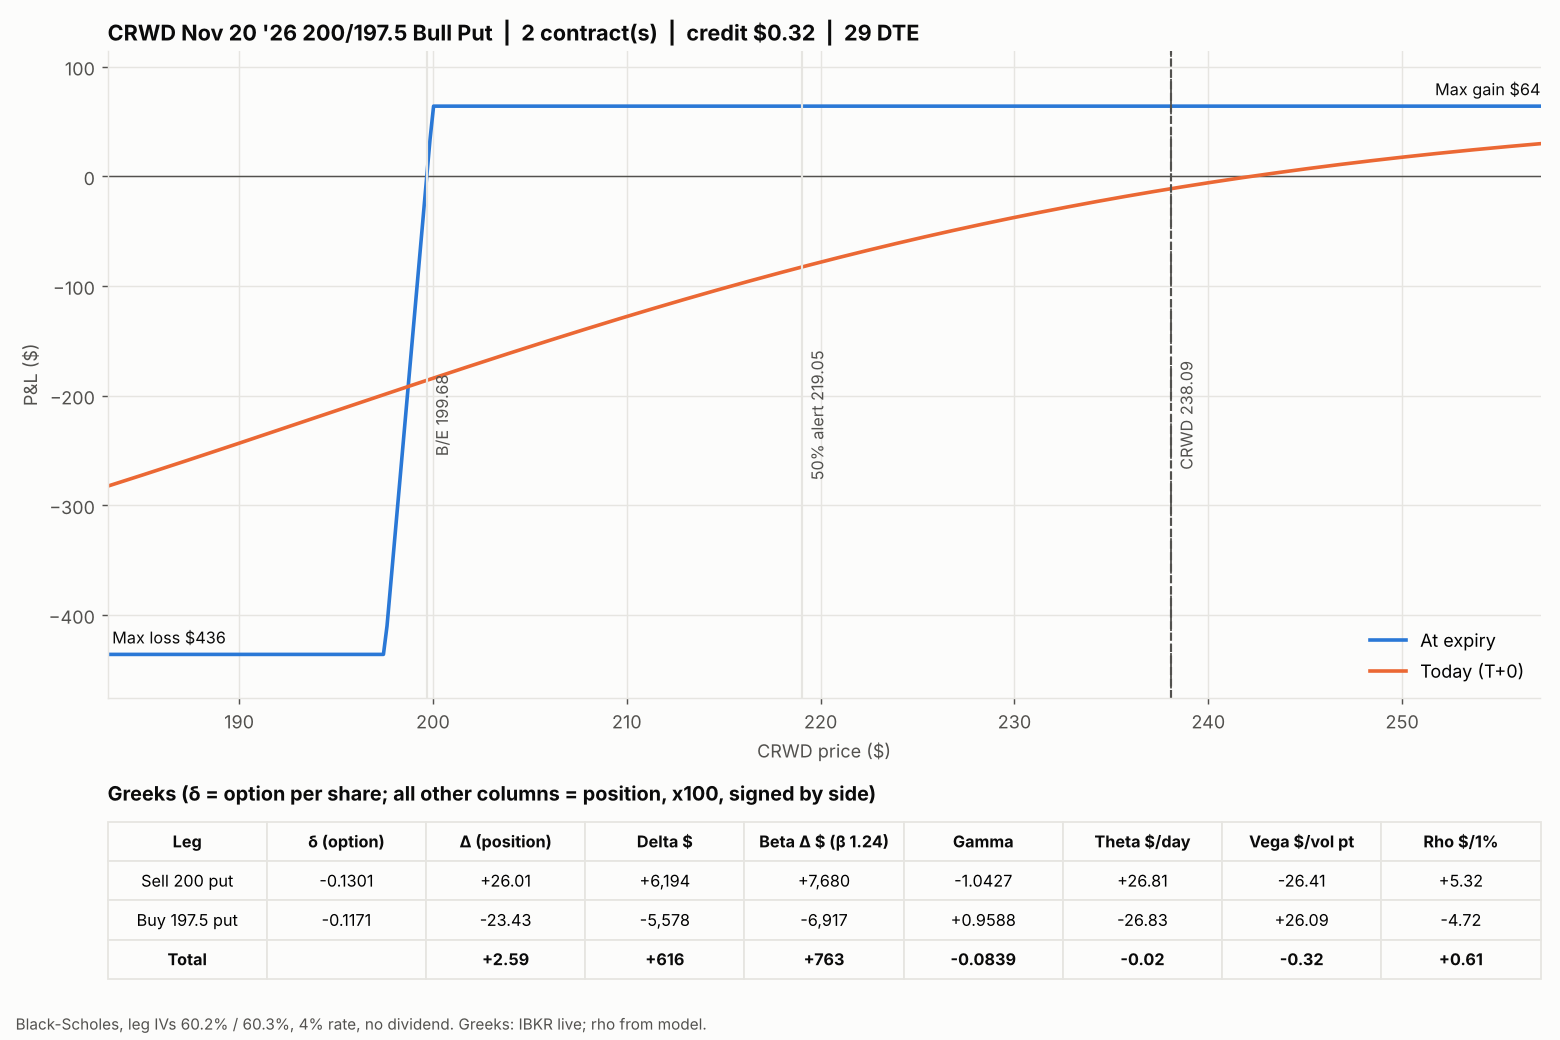
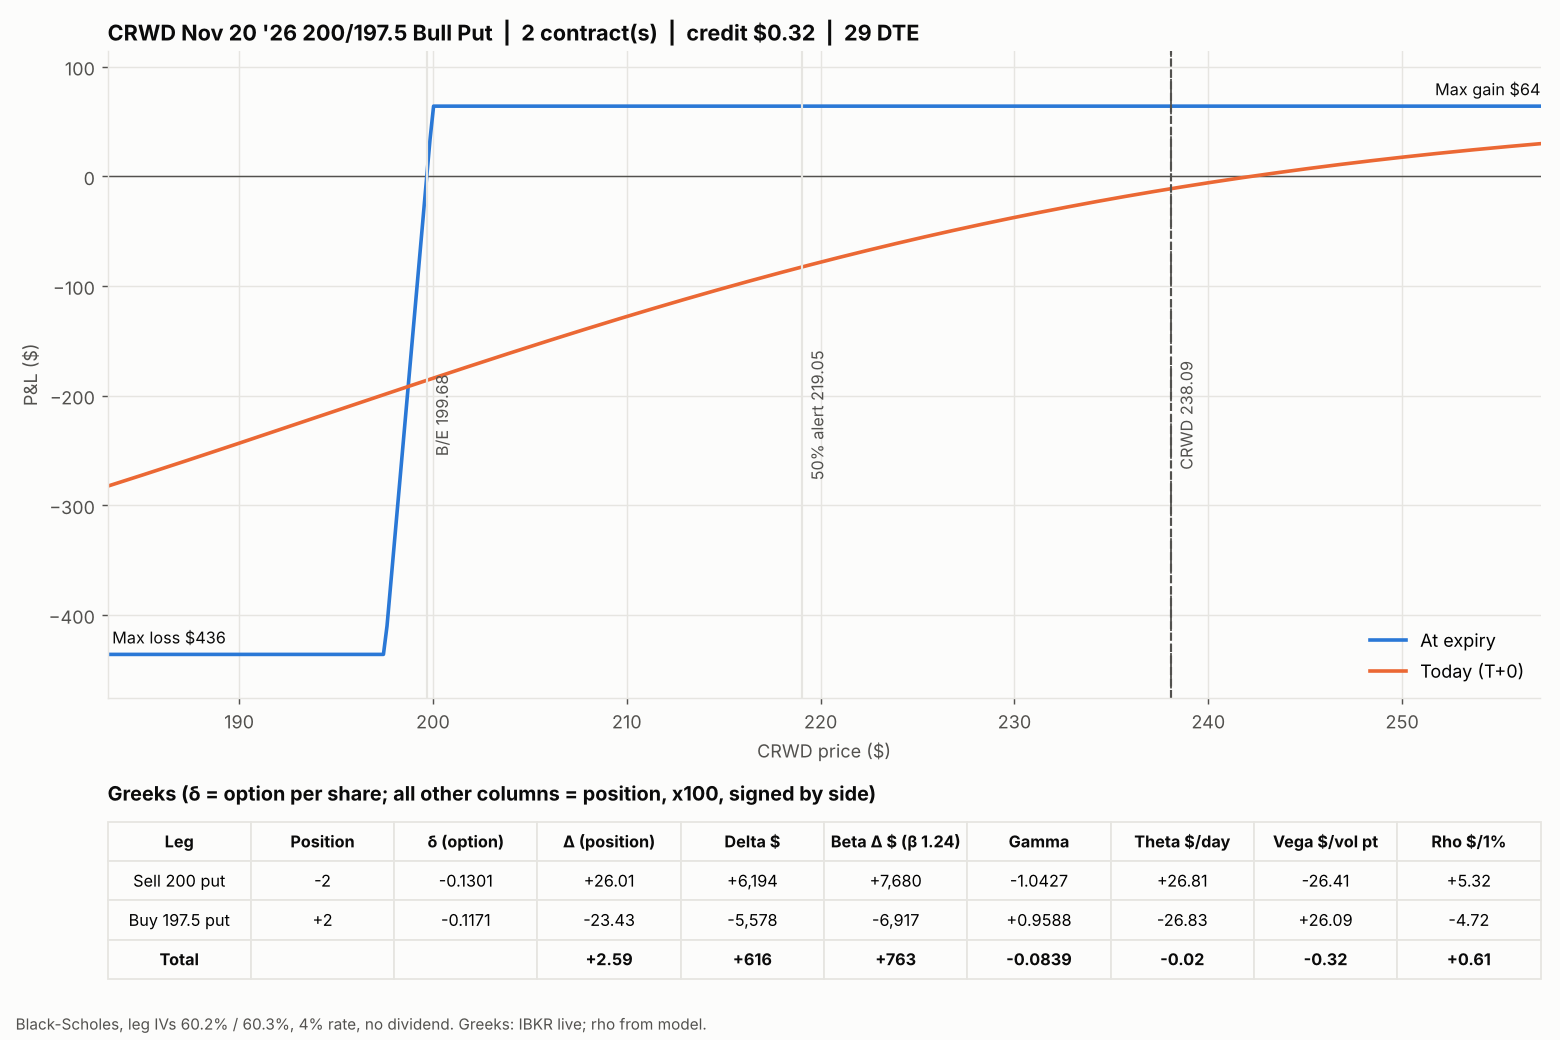
Add position column to greeks table
Claude-Session: https://claude.ai/code/session_01FtgXF3B8kbNGSWUt2ybbKy

Changed region(s): [[0.2769, 0.8, 0.9538, 0.9538], [0.0923, 0.8, 0.1538, 0.9231], [0.1846, 0.8, 0.2462, 0.8923]]

diff --git a/charts/spread_chart.py b/charts/spread_chart.py
@@ -43,10 +43,10 @@ def position(g, side):
 short_row, long_row = position(sg, -1), position(lg, 1)
 total_row = [a + b for a, b in zip(short_row, long_row)]
 fmt = ("{:+.2f}", "{:+,.0f}", "{:+,.0f}", "{:+.4f}", "{:+.2f}", "{:+.2f}", "{:+.2f}")
-row = lambda name, raw, vals: [name, raw] + [f.format(v) for f, v in zip(fmt, vals)]
-greek_rows = [row(f"Sell {KS:g} put", f"{sg[0]:+.4f}", short_row),
-              row(f"Buy {KL:g} put", f"{lg[0]:+.4f}", long_row),
-              row("Total", "", total_row)]
+row = lambda name, pos, raw, vals: [name, pos, raw] + [f.format(v) for f, v in zip(fmt, vals)]
+greek_rows = [row(f"Sell {KS:g} put", f"{-QTY:+g}", f"{sg[0]:+.4f}", short_row),
+              row(f"Buy {KL:g} put", f"{QTY:+g}", f"{lg[0]:+.4f}", long_row),
+              row("Total", "", "", total_row)]
 for r in greek_rows:
     print(" | ".join(r))
 for pct in (-15, -10, -5, 0, 5, 10):
@@ -87,7 +87,7 @@ ax.set_title(f"{tkr} {expiry} {KS:g}/{KL:g} Bull Put  |  {QTY:g} contract(s)  | 
              loc="left", fontsize=12, fontweight="bold", color=INK)
 tax.axis("off")
 tbl = tax.table(cellText=greek_rows,
-                colLabels=["Leg", "δ (option)", "Δ (position)", "Delta $", f"Beta Δ $ (β {BETA:g})",
+                colLabels=["Leg", "Position", "δ (option)", "Δ (position)", "Delta $", f"Beta Δ $ (β {BETA:g})",
                            "Gamma", "Theta $/day", "Vega $/vol pt", "Rho $/1%"],
                 loc="center", cellLoc="center")
 tbl.auto_set_font_size(False)
